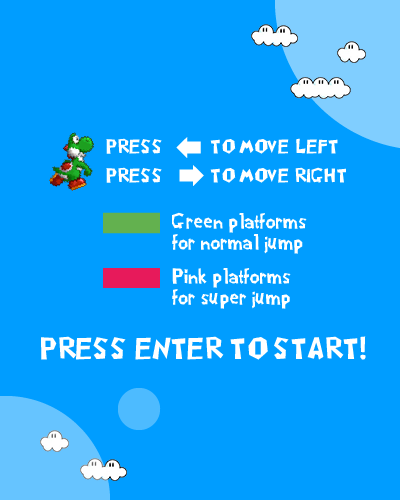
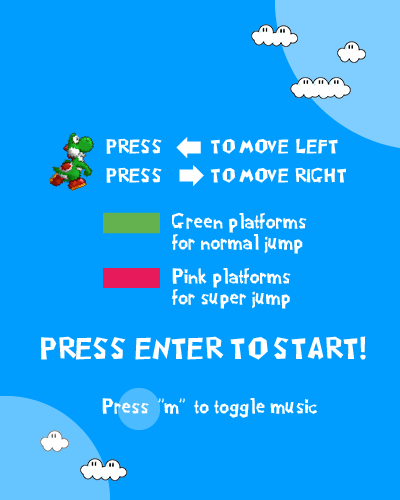
add toggle to music

Changed region(s): [[0.48, 0.78, 0.81, 0.84], [0.24, 0.78, 0.45, 0.84], [0.21, 0.9, 0.27, 0.96]]

diff --git a/lib/yoshiJump.js b/lib/yoshiJump.js
@@ -19,10 +19,15 @@ function checkKeyPressed (event) {
         case 39:
             keyRight = true;
             break;
-        case 13:
+        case 13: //enter
             game.startGame();
             break;
-
+        case 77:
+        if (music.paused) {
+          music.play();
+        } else {
+          music.pause();
+        }
     }
 }
 
